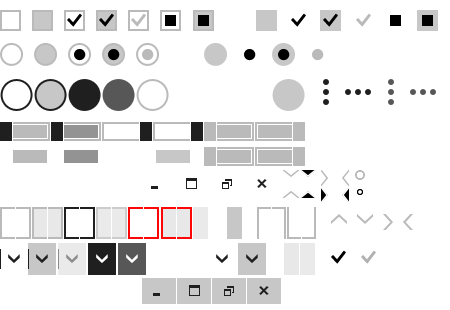
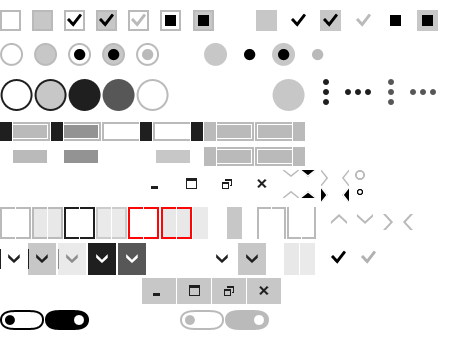
Added new weSwitch control. Changed weSections look and feel.

diff --git a/src/ng_wineight/wineight.css b/src/ng_wineight/wineight.css
@@ -26,6 +26,7 @@
   background-color:#FFFFFF !important;
   color:#FFFFFF;
 }
+.weWhiteSections .weSectionsLightPageSelected .weSectionsLightPageText, .weWhiteSections .weSectionsLightPageSelected_Focus .weSectionsLightPageText, .weWhiteSections .weSectionsDarkPageSelected_Focus .weSectionsDarkPageText, .weWhiteSections .weSectionsDarkPageSelected .weSectionsDarkPageText { border-bottom-color:#FFFFFF !important; }
 .weWhiteMenuBar .weMenuBarLightButtonBtn_Focus .weMenuBarLightButtonText, .weWhiteMenuBar .weMenuBarLightButtonBtnChecked, .weWhiteMenuBar .weMenuBarLightButtonBtnChecked_Focus .weMenuBarLightButtonText {
   background-color:#FFFFFF;
   color:#FFFFFF;
@@ -63,6 +64,7 @@
   background-color:#004D91 !important;
   color:#FFFFFF;
 }
+.weBlueSections .weSectionsLightPageSelected .weSectionsLightPageText, .weBlueSections .weSectionsLightPageSelected_Focus .weSectionsLightPageText, .weBlueSections .weSectionsDarkPageSelected_Focus .weSectionsDarkPageText, .weBlueSections .weSectionsDarkPageSelected .weSectionsDarkPageText { border-bottom-color:#004D91 !important; }
 .weBlueMenuBar .weMenuBarLightButtonBtn_Focus .weMenuBarLightButtonText, .weBlueMenuBar .weMenuBarLightButtonBtnChecked, .weBlueMenuBar .weMenuBarLightButtonBtnChecked_Focus .weMenuBarLightButtonText {
   background-color:#004D91;
   color:#FFFFFF;
@@ -100,6 +102,7 @@
   background-color:#00A300 !important;
   color:#FFFFFF;
 }
+.weGreenSections .weSectionsLightPageSelected .weSectionsLightPageText, .weGreenSections .weSectionsLightPageSelected_Focus .weSectionsLightPageText, .weGreenSections .weSectionsDarkPageSelected_Focus .weSectionsDarkPageText, .weGreenSections .weSectionsDarkPageSelected .weSectionsDarkPageText { border-bottom-color:#00A300 !important; }
 .weGreenMenuBar .weMenuBarLightButtonBtn_Focus .weMenuBarLightButtonText, .weGreenMenuBar .weMenuBarLightButtonBtnChecked, .weGreenMenuBar .weMenuBarLightButtonBtnChecked_Focus .weMenuBarLightButtonText {
   background-color:#00A300;
   color:#FFFFFF;
@@ -137,6 +140,7 @@
   background-color:#FFC40D !important;
   color:#FFFFFF;
 }
+.weYellowSections .weSectionsLightPageSelected .weSectionsLightPageText, .weYellowSections .weSectionsLightPageSelected_Focus .weSectionsLightPageText, .weYellowSections .weSectionsDarkPageSelected_Focus .weSectionsDarkPageText, .weYellowSections .weSectionsDarkPageSelected .weSectionsDarkPageText { border-bottom-color:#FFC40D !important; }
 .weYellowMenuBar .weMenuBarLightButtonBtn_Focus .weMenuBarLightButtonText, .weYellowMenuBar .weMenuBarLightButtonBtnChecked, .weYellowMenuBar .weMenuBarLightButtonBtnChecked_Focus .weMenuBarLightButtonText {
   background-color:#FFC40D;
   color:#FFFFFF;
@@ -174,6 +178,7 @@
   background-color:#525252 !important;
   color:#FFFFFF;
 }
+.weGraySections .weSectionsLightPageSelected .weSectionsLightPageText, .weGraySections .weSectionsLightPageSelected_Focus .weSectionsLightPageText, .weGraySections .weSectionsDarkPageSelected_Focus .weSectionsDarkPageText, .weGraySections .weSectionsDarkPageSelected .weSectionsDarkPageText { border-bottom-color:#525252 !important; }
 .weGrayMenuBar .weMenuBarLightButtonBtn_Focus .weMenuBarLightButtonText, .weGrayMenuBar .weMenuBarLightButtonBtnChecked, .weGrayMenuBar .weMenuBarLightButtonBtnChecked_Focus .weMenuBarLightButtonText {
   background-color:#525252;
   color:#FFFFFF;
@@ -211,6 +216,7 @@
   background-color:#BABABA !important;
   color:#FFFFFF;
 }
+.weLtGraySections .weSectionsLightPageSelected .weSectionsLightPageText, .weLtGraySections .weSectionsLightPageSelected_Focus .weSectionsLightPageText, .weLtGraySections .weSectionsDarkPageSelected_Focus .weSectionsDarkPageText, .weLtGraySections .weSectionsDarkPageSelected .weSectionsDarkPageText { border-bottom-color:#BABABA !important; }
 .weLtGrayMenuBar .weMenuBarLightButtonBtn_Focus .weMenuBarLightButtonText, .weLtGrayMenuBar .weMenuBarLightButtonBtnChecked, .weLtGrayMenuBar .weMenuBarLightButtonBtnChecked_Focus .weMenuBarLightButtonText {
   background-color:#BABABA;
   color:#FFFFFF;
@@ -248,6 +254,7 @@
   background-color:#1F1F1F !important;
   color:#FFFFFF;
 }
+.weDkGraySections .weSectionsLightPageSelected .weSectionsLightPageText, .weDkGraySections .weSectionsLightPageSelected_Focus .weSectionsLightPageText, .weDkGraySections .weSectionsDarkPageSelected_Focus .weSectionsDarkPageText, .weDkGraySections .weSectionsDarkPageSelected .weSectionsDarkPageText { border-bottom-color:#1F1F1F !important; }
 .weDkGrayMenuBar .weMenuBarLightButtonBtn_Focus .weMenuBarLightButtonText, .weDkGrayMenuBar .weMenuBarLightButtonBtnChecked, .weDkGrayMenuBar .weMenuBarLightButtonBtnChecked_Focus .weMenuBarLightButtonText {
   background-color:#1F1F1F;
   color:#FFFFFF;
@@ -285,6 +292,7 @@
   background-color:#B91D47 !important;
   color:#FFFFFF;
 }
+.weMaroonSections .weSectionsLightPageSelected .weSectionsLightPageText, .weMaroonSections .weSectionsLightPageSelected_Focus .weSectionsLightPageText, .weMaroonSections .weSectionsDarkPageSelected_Focus .weSectionsDarkPageText, .weMaroonSections .weSectionsDarkPageSelected .weSectionsDarkPageText { border-bottom-color:#B91D47 !important; }
 .weMaroonMenuBar .weMenuBarLightButtonBtn_Focus .weMenuBarLightButtonText, .weMaroonMenuBar .weMenuBarLightButtonBtnChecked, .weMaroonMenuBar .weMenuBarLightButtonBtnChecked_Focus .weMenuBarLightButtonText {
   background-color:#B91D47;
   color:#FFFFFF;
@@ -322,6 +330,7 @@
   background-color:#2D89EF !important;
   color:#FFFFFF;
 }
+.weLtBlueSections .weSectionsLightPageSelected .weSectionsLightPageText, .weLtBlueSections .weSectionsLightPageSelected_Focus .weSectionsLightPageText, .weLtBlueSections .weSectionsDarkPageSelected_Focus .weSectionsDarkPageText, .weLtBlueSections .weSectionsDarkPageSelected .weSectionsDarkPageText { border-bottom-color:#2D89EF !important; }
 .weLtBlueMenuBar .weMenuBarLightButtonBtn_Focus .weMenuBarLightButtonText, .weLtBlueMenuBar .weMenuBarLightButtonBtnChecked, .weLtBlueMenuBar .weMenuBarLightButtonBtnChecked_Focus .weMenuBarLightButtonText {
   background-color:#2D89EF;
   color:#FFFFFF;
@@ -426,6 +435,18 @@
 }
 .weCheckBoxLightBtnDisabled, .weCheckBoxLightBtnDisabled_Focus, .weCheckBoxDarkBtnDisabled, .weCheckBoxDarkBtnDisabled_Focus { color:#BABABA; }
 .weRadioLightBtnDisabled, .weRadioLightBtnDisabled_Focus, .weRadioDarkBtnDisabled, .weRadioDarkBtnDisabled_Focus { color:#BABABA; }
+.weSwitchLight {
+  font-family:Arial CE, Helvetica CE, Arial, Helvetica, sans-serif;
+  font-size:15px;
+  color:#1F1F1F;
+  margin:7px 0px 6px 0px;
+}
+.weSwitchDark {
+  font-family:Arial CE, Helvetica CE, Arial, Helvetica, sans-serif;
+  font-size:15px;
+  color:#FFFFFF;
+  margin:7px 0px 6px 0px;
+}
 .weToggleSwitchLight {
   font-family:Arial CE, Helvetica CE, Arial, Helvetica, sans-serif;
   font-size:15px;
@@ -681,17 +702,34 @@
   padding-left:15px;
   padding-right:15px;
 }
-.weSectionsDarkSectionselected_Focus .weSectionsDarkPageText, .weSectionsDarkSectionselected .weSectionsDarkPageText { color:#1F1F1F; }
-.weSectionsDarkPage_Focus .weSectionsDarkPageText {
-  color:#FFFFFF;
-  text-decoration:underline;
+.weSectionsDarkPageSelected_Focus .weSectionsDarkPageText {
+  color:#1F1F1F;
+  background-color:#E8E8E8;
+  border-bottom:3px solid #FFFFFF;
 }
-.weSectionsDarkPage .weSectionsDarkPageText { color:#FFFFFF; }
+.weSectionsDarkPageSelected .weSectionsDarkPageText {
+  color:#FFFFFF;
+  border-bottom:3px solid #FFFFFF;
+}
+.weSectionsDarkPage_Focus .weSectionsDarkPageText {
+  color:#1F1F1F;
+  background-color:#E8E8E8;
+}
+.weSectionsDarkPage .weSectionsDarkPageText { color:#C0C0C0; }
 .weSectionsLightPage_Focus .weSectionsLightPageText {
   color:#1F1F1F;
-  text-decoration:underline;
+  background-color:#E8E8E8;
 }
-.weSectionsLightPage .weSectionsLightPageText { color:#1F1F1F; }
+.weSectionsLightPage .weSectionsLightPageText { color:#A0A0A0; }
+.weSectionsLightPageSelected .weSectionsLightPageText {
+  color:#1F1F1F;
+  border-bottom:3px solid #1F1F1F;
+}
+.weSectionsLightPageSelected_Focus .weSectionsLightPageText {
+  color:#1F1F1F;
+  background-color:#E8E8E8;
+  border-bottom:3px solid #1F1F1F;
+}
 .weSectionsLightPageDisabled .weSectionsLightPageText, .weSectionsLightPageDisabled_Focus .weSectionsLightPageText, .weSectionsDarkPageDisabled .weSectionsDarkPageText, .weSectionsDarkPageDisabled_Focus .weSectionsDarkPageText { color:#BABABA; }
 .weSplitPanelLight, .weSplitPanelLightControlsPanel {
   color:#1F1F1F;

diff --git a/src/ng_wineight/wineight.js b/src/ng_wineight/wineight.js
@@ -34,7 +34,7 @@ var WinEightControls = {
   },
 
   ControlImages: [
-    'img/we_base.png?4',
+    'img/we_base.png?5',
     'img/we_hbox.png?3',
     'img/we_vbox.png?3',
     'img/we_icons.png?14',
@@ -49,6 +49,8 @@ var WinEightControls = {
   ],
 
   Images: {
+    SwitchLight: { L: 0, T: 310, W: 44, H: 20, SL: 45, DL: 180, DSL: 225 },
+    SwitchDark: { L: 90, T: 310, W: 44, H: 20, SL: 135, DL: 180, DSL: 225 },
     ToggleSwitchLight: { L: 0, T: 122, W: 50, H: 19, SL: 102, DL: 204, DSL: 255, oL: 51, oSL: 153 },
     ToggleSwitchDark: { L: 0, T: 147, W: 50, H: 19, SL: 102, DL: 204, DSL: 255, oL: 51, oSL: 153 },
     CheckBoxLeftLight: { L: 0, T: 5, W: 31, H: 32, SL: 64, DL: 0, DSL: 128, GL: 160, oL: 32, oSL: 96, oGL: 193 },
@@ -811,6 +813,30 @@ var WinEightControls = {
       return skinfnc.Create_weCheckBox(def,ref,parent,(th ? winimages.RadioLeftLight : winimages.RadioLeftDark),(th ? winimages.RadioRightLight : winimages.RadioRightDark), 'ngRadioButton');
     });
 
+    /*  Class: weSwitch
+     *  Standard check box control (based on <ngCheckBox>).
+     */
+    ngRegisterControlType('weSwitch', function(def,ref,parent) {
+      var th=theme(def);
+      if(typeof def.className === 'undefined') def.className=(th ? 'weSwitchLight' : 'weSwitchDark');
+      var img=(th ? winimages.SwitchLight : winimages.SwitchDark);
+      var c=skinfnc.Create_weCheckBox(def,ref,parent,img,img);
+      if(c)
+      {
+        c.OnGetText=function(c) { return ''; };
+        c.AddEvent('DoAcceptGestures',function(o,gestures) {
+          gestures.swipeleft=true;
+          gestures.swiperight=true;
+        });
+        c.AddEvent('DoGesture',function(pi) {
+          if(pi.Gesture==='swipeleft')  { c.Check(0); delete pi.Gestures.tap; return true; }
+          if(pi.Gesture==='swiperight') { c.Check(1); delete pi.Gestures.tap; return true; }
+          return false;
+        });
+      }
+      return c;
+    });
+
     /*  Class: weToggleSwitch
      *  Standard check box control (based on <ngCheckBox>).
      */
@@ -1543,7 +1569,7 @@ var WinEightControls = {
      */
     /*<>*/
     ngRegisterControlType('weSections', function(def,ref,parent) {
-      if(typeof def.className === 'undefined') def.className=(theme(def) ? 'weSectionsLight' : 'weSectionsDark')+' we'+colorscheme(def)+'Text';
+      if(typeof def.className === 'undefined') def.className=(theme(def) ? 'weSectionsLight' : 'weSectionsDark')+' we'+colorscheme(def)+'Sections';
       var c=ngCreateControlAsType(def, 'ngPages', ref, parent);
       if(c) c.PageImages=winimages.Sections;
       return c;

diff --git a/src/ng_wineight/wineight.less b/src/ng_wineight/wineight.less
@@ -258,6 +258,22 @@
   color: #BABABA;
 }
 
+/* weSwitch *******************************************************************/
+
+.weSwitchLight {
+  font-family: Arial CE, Helvetica CE, Arial, Helvetica, sans-serif;
+  font-size:15px;
+  color: #1F1F1F;
+  margin: 7px 0px 6px 0px;
+}
+
+.weSwitchDark {
+  font-family: Arial CE, Helvetica CE, Arial, Helvetica, sans-serif;
+  font-size:15px;
+  color: #FFFFFF;
+  margin: 7px 0px 6px 0px;
+}
+
 /* weToggleSwitch *************************************************************/
 
 .weToggleSwitchLight {
@@ -790,37 +806,52 @@
 {
 }
 
-.weSectionsDarkSectionselected_Focus .weSectionsDarkPageText,
-.weSectionsDarkSectionselected .weSectionsDarkPageText
+.weSectionsDarkPageSelected_Focus .weSectionsDarkPageText
 {
   color: #1F1F1F;
+  background-color: #E8E8E8;
+  border-bottom: 3px solid #FFFFFF;
+}
+
+.weSectionsDarkPageSelected .weSectionsDarkPageText
+{
+  color: #FFFFFF;
+  border-bottom: 3px solid #FFFFFF;
 }
 
 .weSectionsDarkPage_Focus .weSectionsDarkPageText
 {
-  color: #FFFFFF;
-  text-decoration: underline;
+  color: #1F1F1F;
+  background-color: #E8E8E8;
 }
 
 .weSectionsDarkPage .weSectionsDarkPageText
 {
-  color: #FFFFFF;
+  color: #C0C0C0;
 }
 
 .weSectionsLightPage_Focus .weSectionsLightPageText
 {
   color: #1F1F1F;
-  text-decoration: underline;
+  background-color: #E8E8E8;
 }
 
 .weSectionsLightPage .weSectionsLightPageText
 {
-  color: #1F1F1F;
+  color: #A0A0A0;
 }
 
-.weSectionsLightSectionselected .weSectionsLightPageText,
-.weSectionsLightSectionselected_Focus .weSectionsLightPageText
+.weSectionsLightPageSelected .weSectionsLightPageText
 {
+  color: #1F1F1F;
+  border-bottom: 3px solid #1F1F1F;
+}
+
+.weSectionsLightPageSelected_Focus .weSectionsLightPageText
+{
+  color: #1F1F1F;
+  background-color: #E8E8E8;
+  border-bottom: 3px solid #1F1F1F;
 }
 
 .weSectionsLightPageDisabled .weSectionsLightPageText,

diff --git a/src/ng_wineight/wineight.inc.less b/src/ng_wineight/wineight.inc.less
@@ -39,6 +39,14 @@
     color: #FFFFFF;
   }
 
+  .we@{name}Sections .weSectionsLightPageSelected .weSectionsLightPageText,
+  .we@{name}Sections .weSectionsLightPageSelected_Focus .weSectionsLightPageText,
+  .we@{name}Sections .weSectionsDarkPageSelected_Focus .weSectionsDarkPageText,
+  .we@{name}Sections .weSectionsDarkPageSelected .weSectionsDarkPageText
+  {
+    border-bottom-color: @color !important;
+  }
+
   .we@{name}MenuBar .weMenuBarLightButtonBtn_Focus .weMenuBarLightButtonText,  
   .we@{name}MenuBar .weMenuBarLightButtonBtnChecked, 
   .we@{name}MenuBar .weMenuBarLightButtonBtnChecked_Focus .weMenuBarLightButtonText

diff --git a/src/ng_wineight/designinfo/wineight_di.js b/src/ng_wineight/designinfo/wineight_di.js
@@ -275,6 +275,20 @@ return {
       return di;
     });
     
+    ngRegisterControlDesignInfo('weSwitch',function(d,c,ref) {
+      var di = {
+        Properties: ng_diProperties({
+          "className": defThemeClassName('Switch'),
+          "ColorScheme": undefined,
+          "Data": {
+            "LeftImg": ng_diTypeVal('image', 'WinEightControls.Images.Switch'+defthemetxt())
+          }
+        })
+      };
+      ng_MergeVar(di,weCheckBoxDI(d,c,ref));
+      return di;
+    });
+
     ngRegisterControlDesignInfo('weToggleSwitch',function(d,c,ref) {
       var di = {
         Properties: ng_diProperties({
